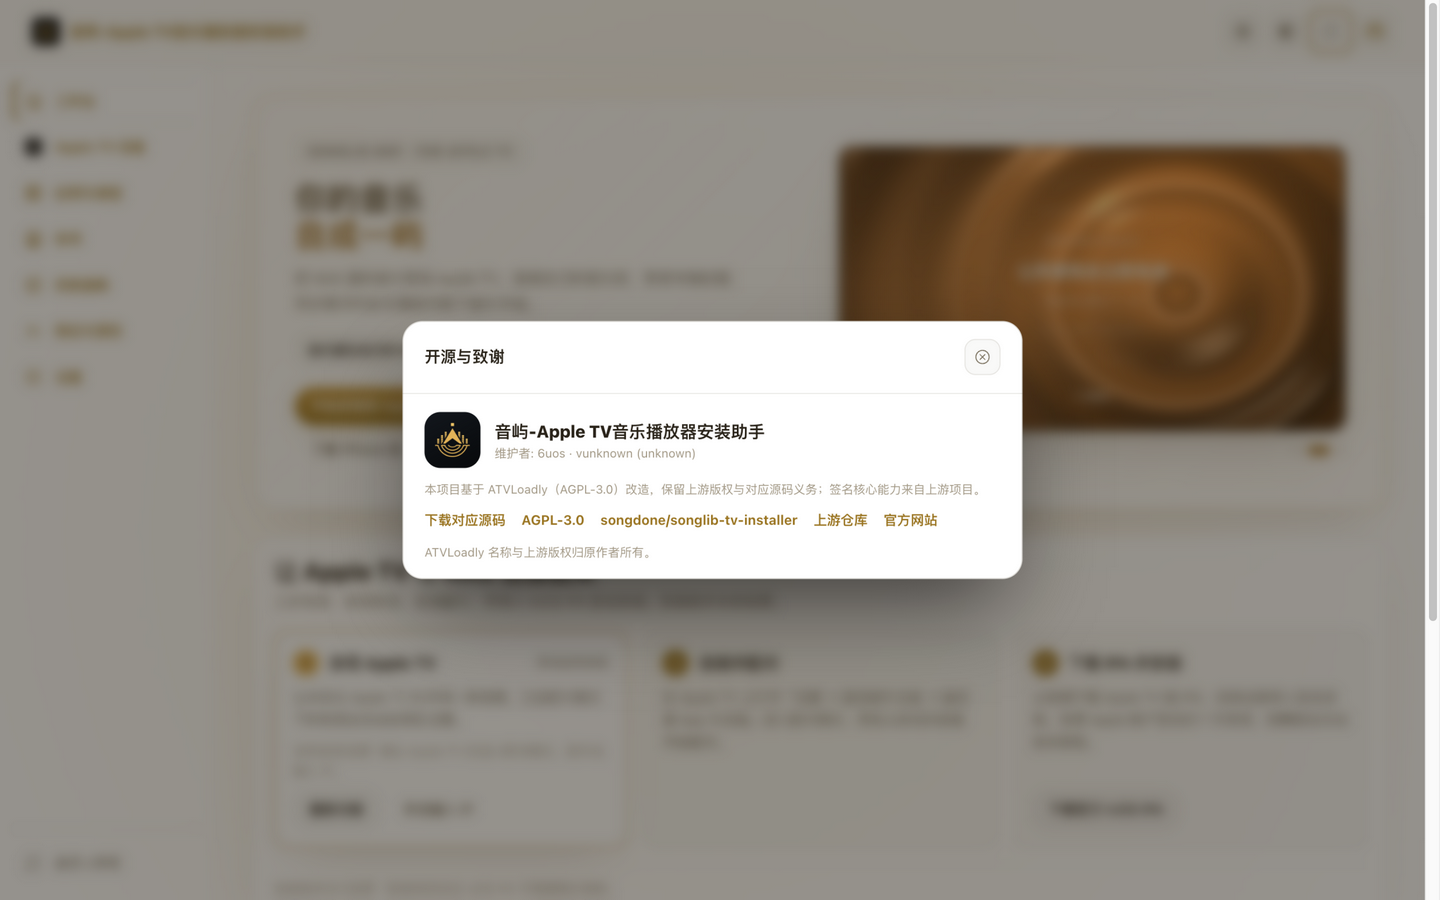
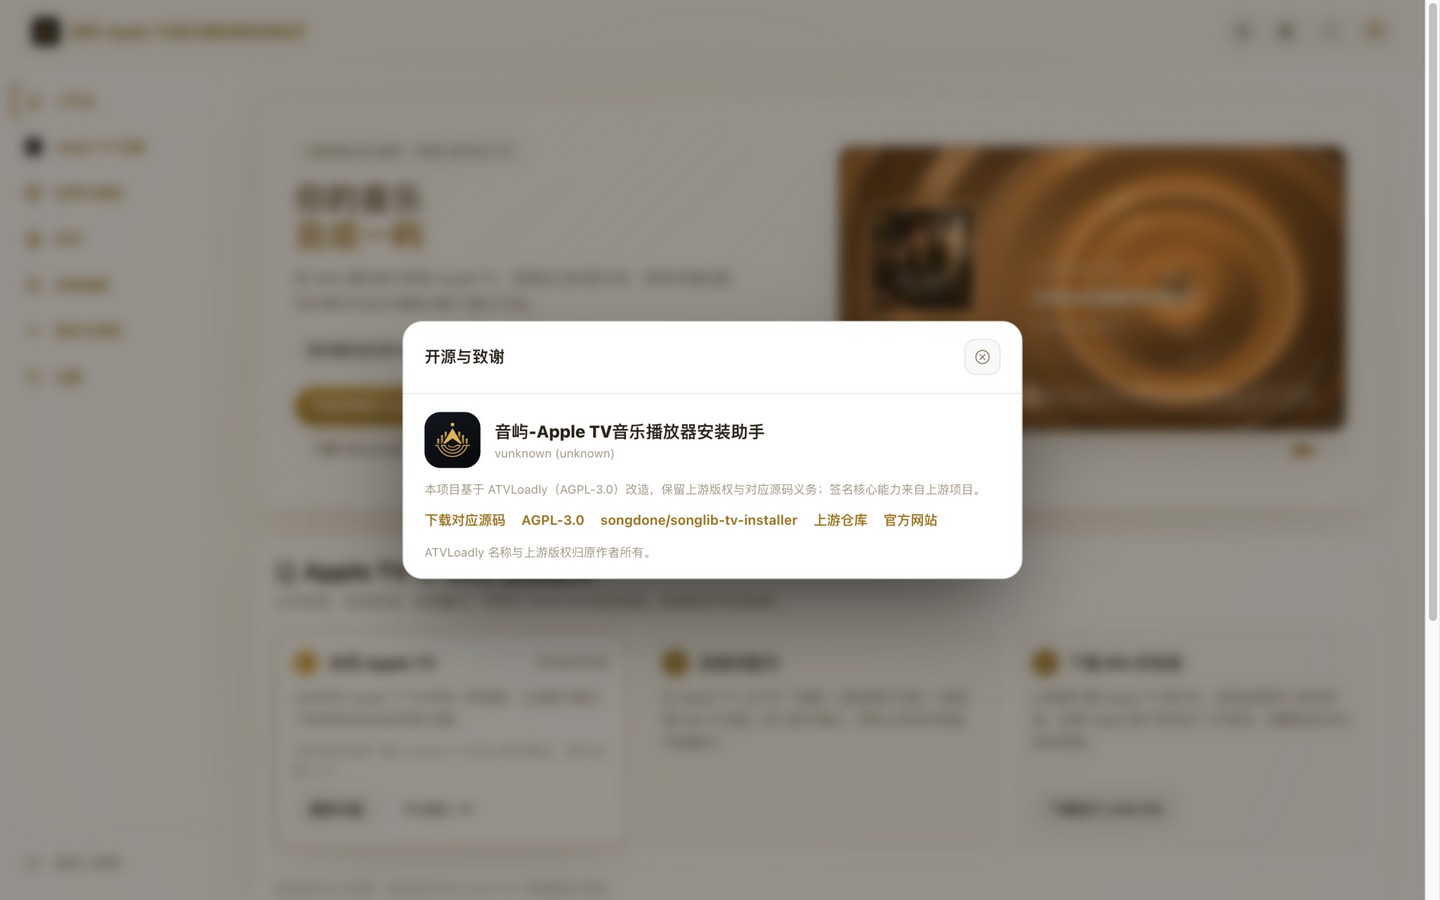
fix(brand): official SVG lockup on login page, public asset pass-through, drop maintainer wording
- Login page uses the official horizontal SongLib lockup SVG (gold island +
  音屿 SongLib Amp wordmark, designed for dark backgrounds) instead of the
  square PNG mark; branding provenance records the owner-supplied file.
- Management auth middleware now serves exactly two public brand assets
  (GET /songlib-logo.svg, /songlib-mark.png) so the login page can render
  its logo and favicon before authentication; every other route stays
  session-protected (verified: /api/apps still 401 unauthenticated).
- Removed 由 6uos 维护 / maintainer wording from all UI surfaces per owner
  decision: login footer line, About modal (locale keys about.maintainer*)
  and the workbench footer note reworded in all five locales. The fixed
  FPK release fields (maintainer=6uos, DockerHub 666uos) are app-store
  metadata and intentionally unchanged.

diff --git a/web/static/src/page/layout.vue b/web/static/src/page/layout.vue
@@ -112,7 +112,7 @@
             <img src="/songlib-mark.png" alt="音屿" />
             <div>
               <h3 class="sl-plan-name">{{ $t("about.product") }}</h3>
-              <p class="sl-hint">{{ $t("about.maintainer") }}: {{ $t("about.maintainer_name") }} · v{{ appVersion }} ({{ buildDate }})</p>
+              <p class="sl-hint">v{{ appVersion }} ({{ buildDate }})</p>
             </div>
           </div>
           <p class="sl-hint" style="margin: 12px 0 0">{{ $t("about.credits_body") }}</p>

diff --git a/web/songlib_auth.go b/web/songlib_auth.go
@@ -133,6 +133,15 @@ func (a *managementAuth) mount(server *fiber.App) {
 		if c.Path() == "/management/login" {
 			return c.Next()
 		}
+		// Public brand assets referenced by the login page itself (favicon and
+		// logo): no secrets, safe to serve before authentication. Everything
+		// else stays behind the session.
+		if c.Method() == "GET" {
+			switch c.Path() {
+			case "/songlib-logo.svg", "/songlib-mark.png":
+				return c.Next()
+			}
+		}
 		token := sha256.Sum256([]byte(c.Cookies("sl_management")))
 		a.mu.Lock()
 		session, ok := a.sessions[token]
@@ -223,7 +232,7 @@ html{background:#0D0F11}
 body{min-height:100vh;margin:0;display:grid;place-items:center;padding:32px 20px;color:#EAE6DE;font:14px/1.6 -apple-system,BlinkMacSystemFont,'PingFang SC','Microsoft YaHei','Segoe UI',sans-serif;-webkit-font-smoothing:antialiased;background:radial-gradient(90vmax 90vmax at 12% -8%,rgba(227,180,89,.10),transparent 62%),radial-gradient(80vmax 80vmax at 96% 110%,rgba(122,152,124,.07),transparent 60%),#0D0F11}
 .auth-card{width:min(420px,100%);padding:36px 34px 30px;border-radius:22px;background:rgba(30,29,27,.94);box-shadow:inset 0 0 0 1px rgba(255,255,255,.10),inset 0 1px 0 rgba(255,255,255,.06),0 40px 90px -40px rgba(0,0,0,.75);animation:pop .7s cubic-bezier(.16,1,.3,1) both}
 @keyframes pop{from{opacity:0;transform:translateY(10px) scale(.97)}to{opacity:1;transform:none}}
-.auth-logo{display:block;width:64px;height:64px;margin:2px auto 18px;border-radius:16px}
+.auth-logo{display:block;width:208px;height:auto;margin:6px auto 22px}
 .auth-card h1{margin:0;font-size:18px;font-weight:800;text-align:center;letter-spacing:.2px}
 .auth-card .desc{margin:8px auto 22px;text-align:center;color:#A39C90;font-size:13.5px}
 .field{display:flex;flex-direction:column;gap:6px;margin-bottom:14px}
@@ -241,12 +250,12 @@ input::placeholder{color:#79736A}
 .hintline{margin:16px 0 0;text-align:center;font-size:12px;color:#79736A}
 </style></head>
 <body><form class="auth-card" novalidate>
-<img class="auth-logo" src="/songlib-mark.png" alt="音屿">
+<img class="auth-logo" src="/songlib-logo.svg" alt="音屿 SongLib Amp">
 <h1>音屿-Apple TV音乐播放器安装助手</h1>
 <p class="desc">登录 NAS 管理服务。此密码与 Apple 账户、音屿激活码分别管理。</p>
 <div class="field"><label for="mg-password">管理密码</label><div class="ifield"><svg viewBox="0 0 24 24" fill="none" stroke="currentColor" stroke-width="2" stroke-linecap="round"><rect x="4" y="10.5" width="16" height="10" rx="2.5"/><path d="M8 10.5V7.5a4 4 0 0 1 8 0v3"/></svg><input id="mg-password" type="password" autocomplete="current-password" required maxlength="200" placeholder="8–64 位管理密码" autofocus></div></div>
 <button class="go" type="submit">登录</button>
 <p role="status" id="status" class="status"></p>
-<p class="hintline">音屿 SongLib Amp · 安装助手由 6uos 维护</p>
+<p class="hintline">音屿 SongLib Amp</p>
 </form>
 <script>document.querySelector('form').onsubmit=async e=>{e.preventDefault();const r=await fetch('/management/login',{method:'POST',headers:{'Content-Type':'application/json'},body:JSON.stringify({password:document.querySelector('input').value})});if(r.ok)location.href='/';else document.querySelector('#status').textContent=r.status===429?'尝试过多，请稍后重试':'登录失败，请检查管理密码';};</script></body></html>`

diff --git a/README.md b/README.md
@@ -2,7 +2,7 @@
 
 **你的音乐 自成一屿** —— 这是 [音屿 SongLib Amp](https://songlib.playsong.cn/)（Apple TV 私人音乐播放器）的官方安装助手：一个免费、开源的 Apple TV IPA 自签与自动续签工具，运行在飞牛 fnOS 或 Docker 上。
 
-由 **6uos** 维护，基于 [ATVLoadly](https://github.com/bitxeno/atvloadly)（AGPL-3.0）改造；签名与续签内核来自上游项目，上游版权与对应源码义务完整保留。
+基于 [ATVLoadly](https://github.com/bitxeno/atvloadly)（AGPL-3.0）改造；签名与续签内核来自上游项目，上游版权与对应源码义务完整保留。
 
 > 音屿播放器是独立的商业产品，与安装助手分开维护：播放器客户端、授权服务与官网在私有仓库开发。安装助手永久免费，安装其他合法 tvOS IPA 不需要购买音屿。
 
